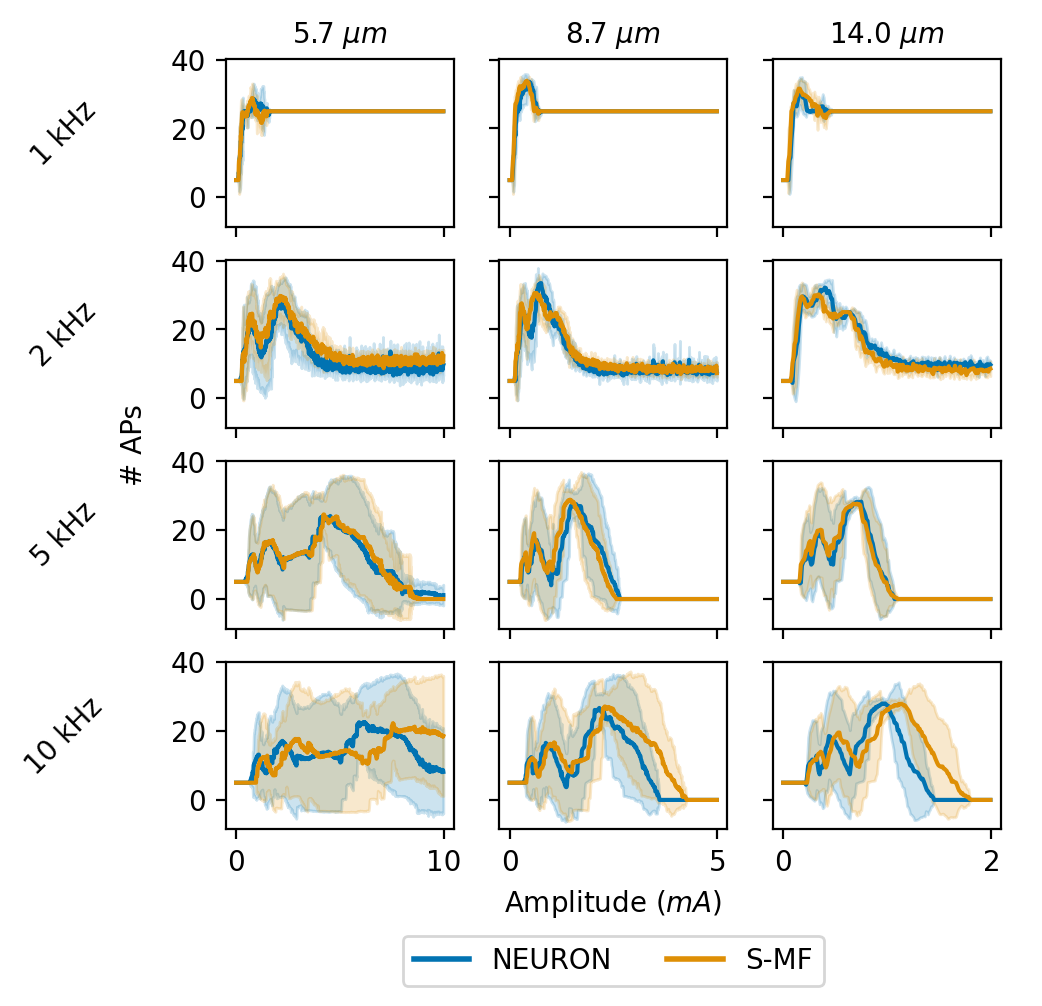
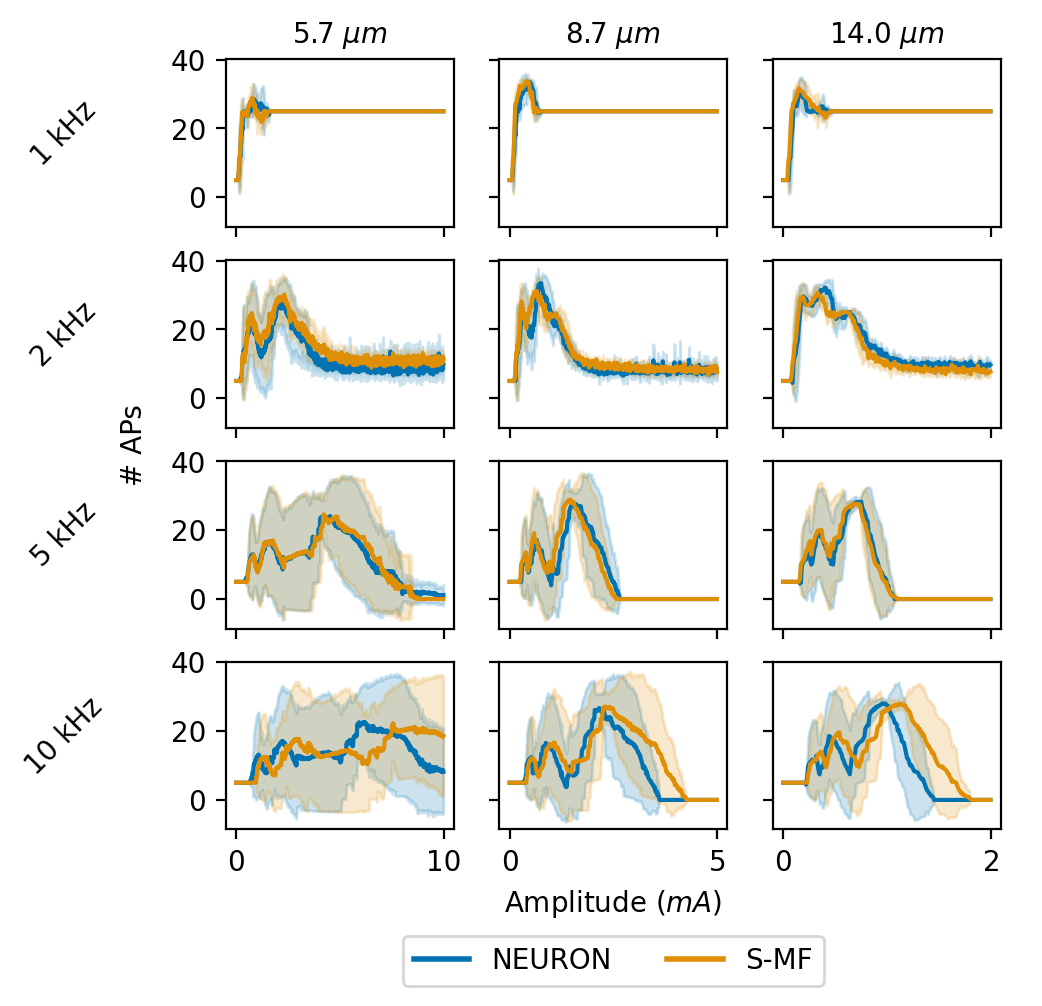
fix run_khz.py to use new dendra API

diff --git a/examples/khz/run_khz.py b/examples/khz/run_khz.py
@@ -1,15 +1,27 @@
-import argparse
+import os
 
-import torch
-from tqdm import tqdm
-import numpy as np
+os.environ["DENDRA_INDUCTOR_CACHE_POLICY"] = "shared"
+os.environ["TORCHINDUCTOR_CACHE_DIR"] = (
+    "/hpc/group/wmglab/mah148/dendra_cache/torchinductor/"
+    "torch212_cuda130_py312"
+)
+os.environ["TORCHINDUCTOR_FX_GRAPH_CACHE"] = "1"
+os.environ["TORCHINDUCTOR_AUTOGRAD_CACHE"] = "1"
+os.environ["DENDRA_INDUCTOR_DISABLE_PCH"] = "1"
+os.environ["TORCHINDUCTOR_COMPILE_THREADS"] = "16"
+
+import argparse
 
 import dendra as dn
 from dendra.units import nA, Hz, ms
 from dendra_models.models.cells.peripheral import SMF
 
+import torch
+from tqdm import tqdm
+import numpy as np
 
-torch.set_default_dtype(torch.float32)
+torch._logging.set_logs(recompiles=True, recompiles_verbose=True)
+
 
 parser = argparse.ArgumentParser()
 parser.add_argument("--chunks", type=int, default=1000)
@@ -31,15 +43,17 @@ field_x = np.load("./fields/fiber_zs.npy")
 
 
 # -- generate field bases --
-# machinery
-interpolator = dn.precomputed_interpolate_1d(FIELD_DATA[s_idx] * 1000, field_x)
+# -- machinery --
+interpolator = dn.precomputed_interpolate_1d(
+    FIELD_DATA[s_idx] * 1000, field_x
+).float()
 
 
 def make_ve_at_nodes(diameter, a_idx, nodes=nodes, offset=37500):
     start = (deltax(diameter) * (nodes - 1)) / 2
-    interp_at = np.linspace(-start, start, nodes) + offset
-    b = interpolator._interpolate(interpolator.get(a_idx), interpolator.x[0], interp_at)
-    return b
+    interp_at = torch.linspace(-start, start, nodes) + offset
+    b = interpolator.interp(interp_at, indices=[a_idx])
+    return b.detach().cpu().numpy()
 
 
 diam_amp_dict = {
@@ -86,18 +100,18 @@ frequencies = [1, 2, 5, 10]
 input_diams = []
 for _ in frequencies:
     input_diams.append(torch.tensor(diam, device="cuda").float())
-input_diams = torch.cat(input_diams)
+input_diams = torch.cat(input_diams).float()
 
 stim = dn.sin(
     amp=1.0, freq=np.repeat(frequencies, len(field_stack))[:, None], delay=0.5
-)
-field_stack = torch.tensor(field_stack).repeat(len(frequencies), 1)
+).float()
+field_stack = torch.tensor(field_stack, device="cuda").repeat(len(frequencies), 1).float()
 
 tstop = 100
 dt = 0.001
 
 # fiber model
-mrg = SMF(input_diams, nodes).cuda()
+mrg = SMF(diameters=input_diams, n_node=nodes).cuda().float()
 
 # intracellular stim to generate activity
 intra = dn.mono_rect(amp=2.0 * nA, pw=0.1 * ms).repeat(100.0 * Hz, delay=50.0 * ms)
@@ -111,6 +125,7 @@ mrg.longrun(
     extra=(field_stack, stim),
     chunklength=int(tstop / dt / args.chunks),
     callbacks=[count],
+    progressbar=True
 )
 all_n = count.numpy()
 
